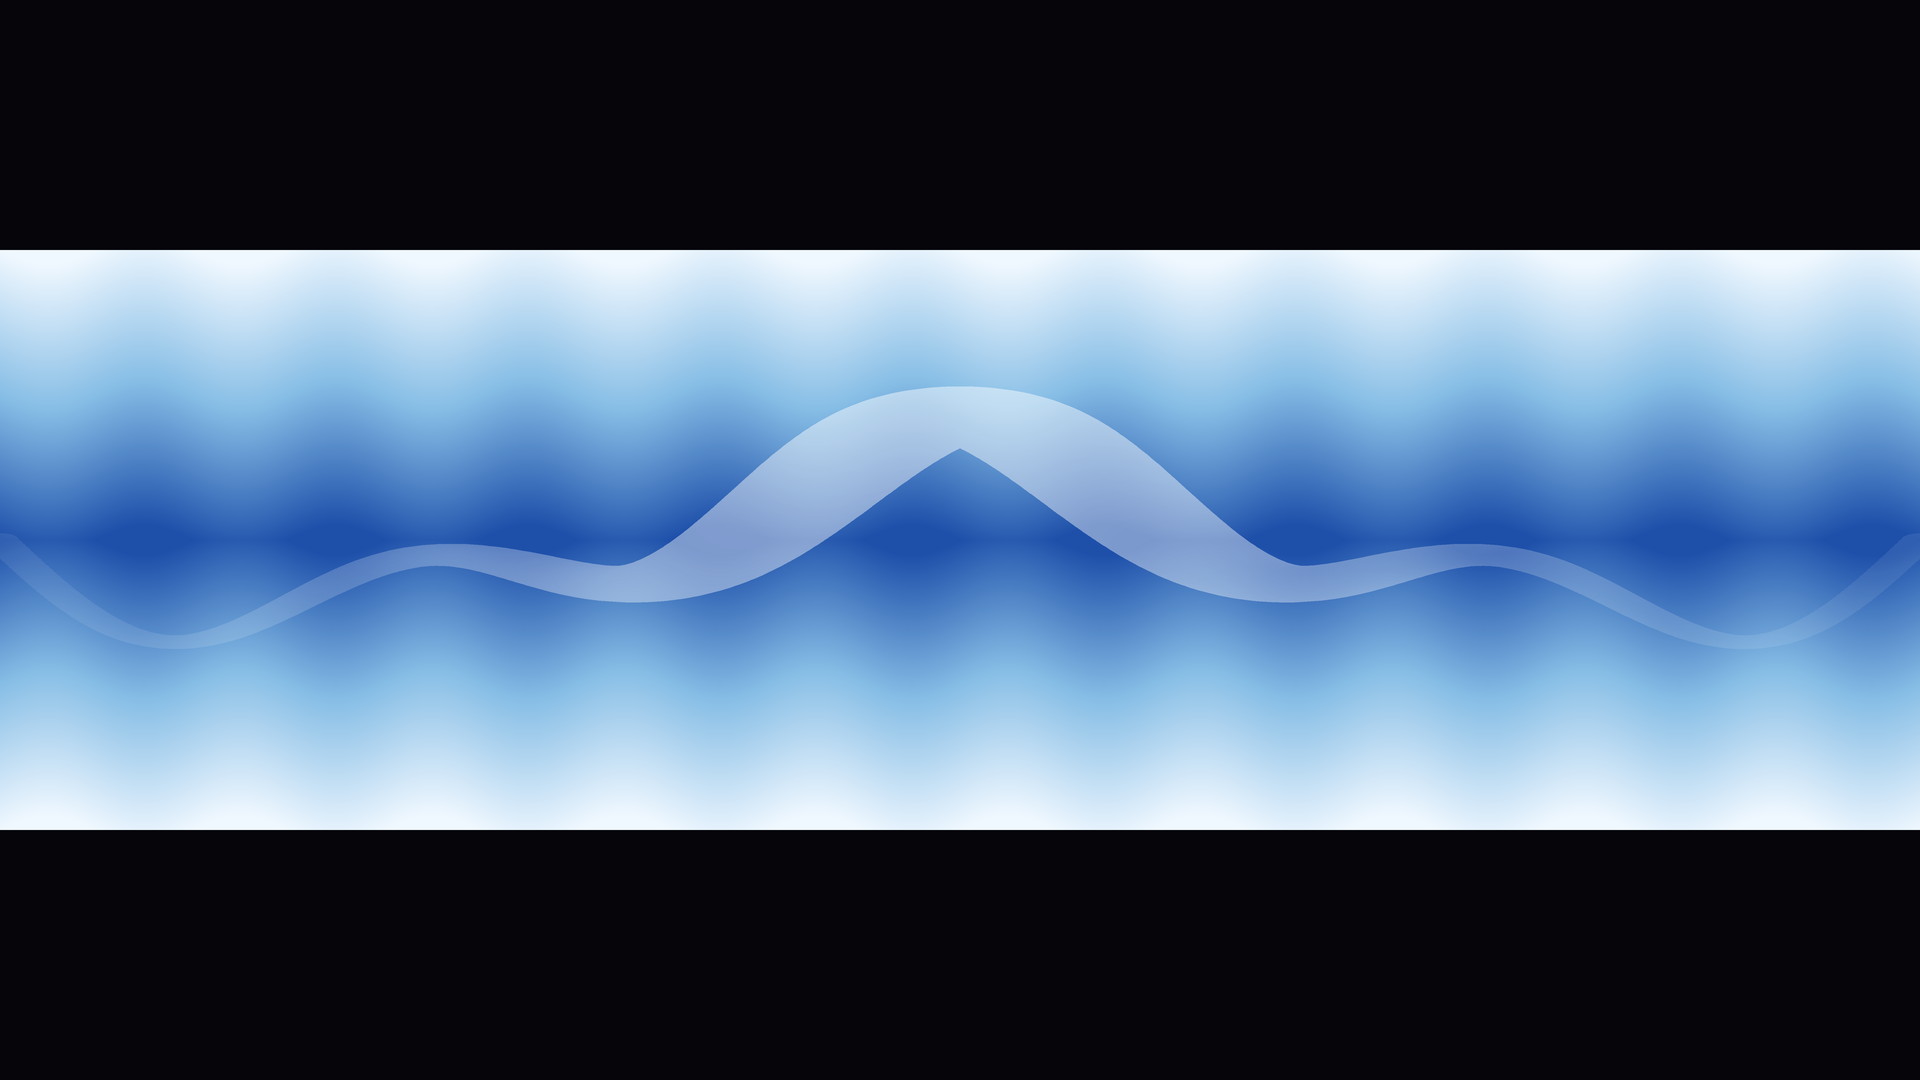
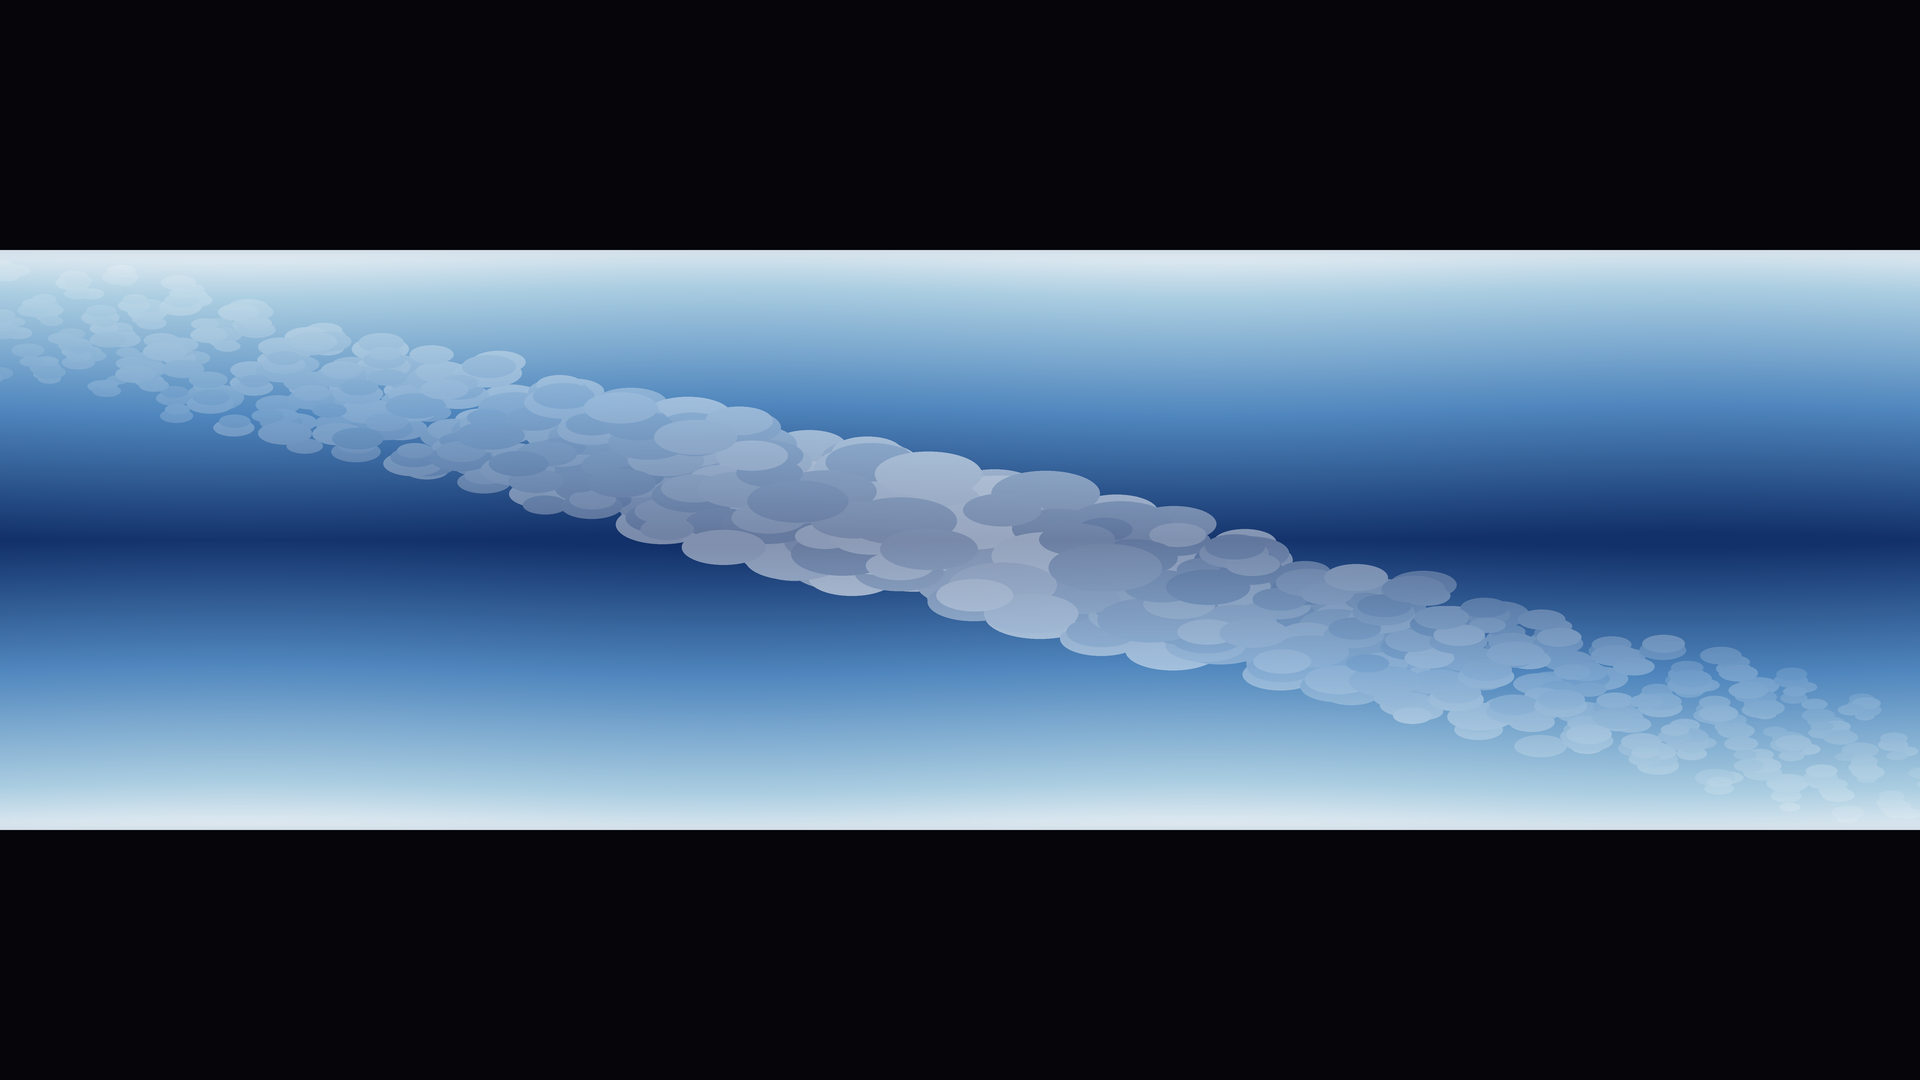
feat(pusaran-magma-air): langit natural — reversed gradient + low-discrepancy clouds

diff --git a/universal/pusaran-magma-air/src/sky.py b/universal/pusaran-magma-air/src/sky.py
@@ -1,58 +1,98 @@
-"""Sky generation — pusaran-magma-air (deterministik murni)."""
+"""Sky — gradien siang + awan low-discrepancy (deterministik murni)."""
 import numpy as np
 
-# --- Canvas spec ---
+# --- Canvas ---
 W, H   = 7680, 4320
 Y1, Y2 = 1000, 3320
 Y_MID  = (Y1 + Y2) // 2      # 2160
 H_SKY  = Y2 - Y1             # 2320
 
-# --- Sky gradient params ---
-A_MOD = 0.05
-K_MOD = 10.0
-
-# Daytime sky palette: h=0 -> deep blue, h=1 -> white
-SKY_ANCHORS_H = np.array([0.0, 0.5, 1.0], dtype=np.float32)
+# --- Gradient: biru tua di zenith, pucat di horizon ---
+SKY_ANCHORS_H = np.array([0.0, 0.45, 0.85, 1.0], dtype=np.float32)
 SKY_ANCHORS_RGB = np.array([
-    [ 30,  80, 170],   # deep blue
-    [135, 190, 230],   # light blue
-    [240, 248, 255],   # near white
+    [ 18,  48, 105],   # zenith  — biru tua
+    [ 80, 135, 190],   # mid     — biru
+    [170, 205, 225],   # transisi
+    [225, 235, 242],   # horizon — pucat berkabut
 ], dtype=np.float32)
 
-# --- Cloud params ---
-CLOUD_N         = 500
-CLOUD_A1        = 300.0
-CLOUD_A2        = 200.0
-CLOUD_S_MIN     = 150.0
-CLOUD_S_MAX     = 500.0
-CLOUD_P         = 4.0    # spatial compression exponent
-CLOUD_RHO       = 0.35
-CLOUD_ALPHA_MIN = 20
-CLOUD_ALPHA_MAX = 100
-CLOUD_Q         = 2.0
+A_MOD = 0.02      # modulasi horizontal sangat halus
+K_MOD = 2.0
+HAZE_WIDTH = 60   # lebar fade kabut di ujung atas & bawah langit
 
 
 def sky_gradient():
-    """Pixel network: RGB(x, y) untuk tiap piksel langit."""
+    """Pixel network RGB(x, y). t=0 zenith, t=1 horizon."""
     yy = np.arange(Y1, Y2, dtype=np.float32)[:, None]
     xx = np.arange(W, dtype=np.float32)[None, :]
-    t   = np.abs(yy - Y_MID) / (H_SKY / 2.0)
-    mod = A_MOD * np.sin(2.0 * np.pi * K_MOD * xx / W)
-    h   = np.clip(t + mod, 0.0, 1.0)
+
+    t = np.abs(yy - Y_MID) / (H_SKY / 2.0)
+
+    # Modulasi horizontal sangat halus (bukan zebra)
+    mod = A_MOD * np.sin(2 * np.pi * K_MOD * xx / W)
+    h = np.clip(t + mod, 0.0, 1.0)
+
     r = np.interp(h, SKY_ANCHORS_H, SKY_ANCHORS_RGB[:, 0])
     g = np.interp(h, SKY_ANCHORS_H, SKY_ANCHORS_RGB[:, 1])
     b = np.interp(h, SKY_ANCHORS_H, SKY_ANCHORS_RGB[:, 2])
-    return np.stack([r, g, b], axis=-1).astype(np.uint8)
+    rgb = np.stack([r, g, b], axis=-1)
+
+    # --- Fade kabut di ujung atas & bawah langit ---
+    # Menghindari pembatas keras. Warna bergerak ke arah abu-biru pucat.
+    dist_top = (yy - Y1)
+    dist_bot = (Y2 - yy)
+    edge = np.minimum(dist_top, dist_bot) / HAZE_WIDTH       # 0 di ujung
+    edge = np.clip(edge, 0.0, 1.0)
+    haze_rgb = np.array([210, 222, 232], dtype=np.float32)
+    weight = (1.0 - edge) ** 2       # 1 di ujung, 0 di tengah
+    rgb = rgb * (1 - weight[..., None]) + haze_rgb * weight[..., None]
+
+    return rgb.astype(np.uint8)
 
 
-def cloud_params():
-    """Parameter elips awan, deterministik dari indeks i."""
-    i = np.arange(CLOUD_N, dtype=np.float32)
-    u = i / (CLOUD_N - 1)
-    x = W * u
-    y = Y_MID + CLOUD_A1 * np.sin(3.0 * np.pi * u) \
-              + CLOUD_A2 * np.sin(7.0 * np.pi * u)
-    sx    = CLOUD_S_MIN + CLOUD_S_MAX * np.power(np.sin(np.pi * u), CLOUD_P)
-    sy    = CLOUD_RHO * sx
-    alpha = CLOUD_ALPHA_MIN + CLOUD_ALPHA_MAX * np.power(np.sin(np.pi * u), CLOUD_Q)
-    return x, y, sx, sy, alpha
+# --- Awan: low-discrepancy (golden ratio) ---
+PHI = (1 + 5 ** 0.5) / 2       # 1.618...
+
+CLOUD_N        = 220
+CLUSTER_MIN    = 3
+CLUSTER_MAX    = 5
+CLUSTER_RADIUS = 240
+MARGIN_FRAC    = 0.10          # 10% margin atas/bawah band langit
+
+
+def cloud_ellipses():
+    """Kembalikan array elips (x, y, w, h, alpha). Deterministik."""
+    xs, ys, ws, hs, alphas = [], [], [], [], []
+
+    for k in range(CLOUD_N):
+        # Posisi klaster via golden ratio
+        ux = (k * PHI) % 1.0
+        uy = (k * PHI * PHI) % 1.0
+        cx = W * ux
+        cy = Y1 + H_SKY * (MARGIN_FRAC + (1 - 2 * MARGIN_FRAC) * uy)
+
+        # Ukuran & alpha bergantung jarak ke tepi langit
+        d_top = (cy - Y1) / H_SKY
+        d_bot = (Y2 - cy) / H_SKY
+        d = min(d_top, d_bot) * 2.0      # 0 di horizon, 1 di tengah
+        base_size  = 90 + 420 * (d ** 1.6)
+        base_alpha = 25 + 150 * (d ** 1.6)
+
+        # Cluster 3–5 elips
+        n = CLUSTER_MIN + (k * 7) % (CLUSTER_MAX - CLUSTER_MIN + 1)
+        for j in range(n):
+            ox = CLUSTER_RADIUS * (((j * PHI + k * 0.13) % 1.0) - 0.5) * 2
+            oy = CLUSTER_RADIUS * (((j * PHI * PHI + k * 0.21) % 1.0) - 0.5) * 2
+            sj = base_size  * (0.55 + 0.45 * ((j * 0.37 + k * 0.11) % 1.0))
+            aj = base_alpha * (0.60 + 0.40 * ((j * 0.53 + k * 0.19) % 1.0))
+            xs.append(cx + ox)
+            ys.append(cy + oy)
+            ws.append(sj)
+            hs.append(sj * 0.42)         # pipih
+            alphas.append(aj)
+
+    return (np.array(xs, dtype=np.float32),
+            np.array(ys, dtype=np.float32),
+            np.array(ws, dtype=np.float32),
+            np.array(hs, dtype=np.float32),
+            np.array(alphas, dtype=np.float32))
